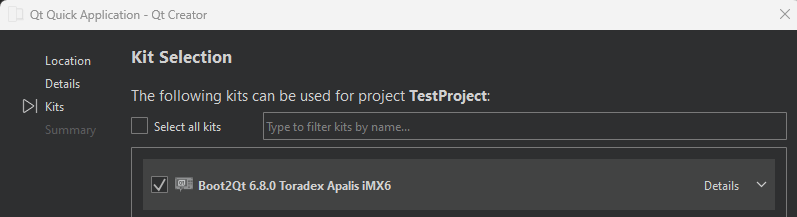
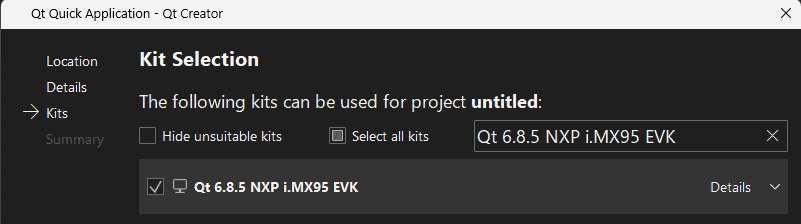
startupscreen: update deployment instructions
Update instructions from latest boot2qt/qtonboard documentation.

diff --git a/startupscreen/assets/b2qt-tutorial-deploying.html b/startupscreen/assets/b2qt-tutorial-deploying.html
@@ -1,40 +1,32 @@
-<div class="descr"> 
-<p>You can deploy all kinds of Qt projects to your target device: Qt Examples and projects that you have created yourself. In this tutorial, we use Qt Creator's project wizard and create a new Qt Quick project. We build and run the project, and deploy it to a target device.</p>
-<p>This tutorial guides how you deploy a project to one of the target devices with pre-built images (see Supported Target Devices and Development Hosts). However, you should follow similar steps when you deploy to a target device where you have built an image yourself.</p>
-<p>The tutorial assumes that you have installed the Boot to Qt software stack to your development host and flashed it to your target device. That is, <b>Get Started with Boot to Qt</b> appears on the device screen when you power on the device.</p>
-
-<h2 id="preparation-of-qt-kit">Preparation of Boot to Qt Kit</h2>
-<p>Qt Creator groups build and run specific settings as kits. Each kit consists of a set of values that define one environment, such as a target device, tool chain, Qt version, and debugger command to use.</p>
+<div class="descr" id="details">
+<p>You can deploy all kinds of Qt projects to your target device: <a href="http://doc.qt.io/qt/all-examples.html">Qt Examples</a> and projects that you have created yourself. In this tutorial, we use Qt Creator's project wizard and create a new <a href="http://doc.qt.io/qt/qtquick-index.html">Qt Quick</a> project. We build and run the project, and deploy it to a target device.</p>
+<p>This tutorial describes how you deploy a project to one of the target devices with pre-built Qt for embedded Linux images (see <a href="qtdc-supported-platforms.html">Supported Target Devices and Development Hosts</a>). However, you should follow similar steps when you deploy to a target device where you have built an image yourself.</p>
+<p>The tutorial assumes that you have installed Qt for embedded Linux to your development host and flashed it to your target device. That is, <b>Get Started with Qt</b> appears on the device screen when you power on the device.</p>
+<h2 id="preparing-qt-for-embedded-linux-kits">Preparing Qt for embedded Linux kits</h2>
+<p>Qt Creator groups build-and-run-specific settings together as kits. Each kit consists of a set of values that define one environment, such as a target device, tool chain, Qt version, and debugger command to use.</p>
 <p>Before deploying, make sure that your kit contains the target device. Connect your target device to the host platform, open Qt Creator, and execute the following steps:</p>
-<ol class="1" type="1"><li>Select <b>Edit &gt; Preferences &gt; Kits</b>.</li>
-<li>Select one of the predefined kits starting with <b>Boot to Qt..&#x2e;</b> that matches the type of your device (1).</li>
-<li>Select the appropriate device in the <b>Run device</b> field (2).</li>
-<li>Select <b>OK</b>.</li>
+<ol class="1" type="1"><li>Select <b translate="no">Edit</b> &gt; <b translate="no">Preferences</b> &gt; <b translate="no">Kits</b>.</li>
+<li>Select one of the predefined kits that matches the type of your device (1).</li>
+<li>Select the appropriate device in the <b translate="no">Run device</b> field (2).</li>
+<li>Select <b translate="no">Apply</b>.</li>
 </ol>
-<p class="centerAlign"><img src="assets/b2qt-device-in-kit.png" alt="" /></p>
-<h3 id="troubleshooting-device-is-not-found">Troubleshooting: Device is not found</h3>
-<p>When your target device is connected to the host platform, Qt Creator should automatically detect it and the device should appear in the kit's <b>Device</b> field. If it doesn't appear, first replug the device. If that doesn't help, then reboot the host platform.</p>
-<p><b>Note: </b>In Linux, ensure that you have access to plugged in devices. For more information, see Setting Up USB Access to Embedded Devices.</p>
-
-<h2 id="creating-new-qt-quick-project">Creating New Qt Quick Project</h2>
-<p>Create a new Qt Quick project with the steps in Creating Qt Quick Applications. When creating the project, you can use the default values defined in the wizard pages. In the <b>Kit Selection</b> page, select the Boot to Qt software stack kit that matches the type of your target device. The following picture illustrates how to select the kit where the device was added in Preparation of Boot to Qt Kit:</p>
-<p class="centerAlign"><img src="assets/b2qt-select-kit.png" alt="" /></p>
-<p>After you complete the steps in the project wizard, the generated Qt Quick project is automatically opened in the <b>Edit</b> mode (1).</p>
-<p class="centerAlign"><img src="assets/b2qt-edit-mode-pro-file.png" alt="" /></p>
-<p>You can see the project's structure by selecting <b>Projects</b> in the sidebar (2). If you select the <b>CMakeLists.txt</b> file (3) under your project, you see its content in the editor view. The last lines in the CMakeLists.txt file (4) define the path where your project is deployed. Qt's project wizard generates the path automatically for Qt Quick projects. For other projects, you might need to define the path manually in the CMakeLists.txt file.</p>
-<p>For more information on CMake, see Build with CMake. For more information on Qt Creator configurations for Boot to Qt, see Boot to Qt Deploy Configuration.</p>
-
-<h2 id="building-running-and-deploying-project">Building, running, and deploying project</h2>
-<p>Now it is time to build and run your project, and deploy it to the target device. When you run the project, Qt Creator automatically both builds it and deploys it to the device. Thus, you just need to select the <b>Run</b> button (1) in Qt Creator.</p>
-<p class="centerAlign"><img src="assets/b2qt-run-button.png" alt="" /></p>
-<p>Your project is now running on the target device.</p>
-<p>For more information on CMake deployment, see Deployment in CMake documentation.</p>
-
+<div class="admonition note">
+<p><b>Note: </b>If you use Docker, go to <b translate="no">Preferences</b> &gt; <b translate="no">Devices</b>, and select the Docker Device in the selected kit. Then check that the path to your project is listed in <b translate="no">Paths to mount</b>. This option maps the path to the docker container.</p>
+</div>
+<p class="centerAlign"><img src="assets/b2qt-device-in-kit.png" alt="Qt Creator Kits UI view." /></p><h2 id="creating-new-qt-quick-project">Creating new Qt Quick project</h2>
+<p>Create a new Qt Quick project with the steps in <a href="http://doc.qt.io/qtcreator/quick-projects.html#creating-qt-quick-applications">Creating Qt Quick Applications</a>. When creating the project, you can use the default values defined in the wizard pages. In the <b translate="no">Kit Selection</b> page, select the kit that matches the type of your target device. The following picture illustrates how to select the kit where the device was added in <a href="qtonboard-tutorial-deploying.html#preparing-qt-for-embedded-linux-kits">Preparing Qt for embedded Linux Kits</a>:</p>
+<p class="centerAlign"><img src="assets/b2qt-select-kit.png" alt="Qt Creator Kit Selection UI view." /></p><p>After you complete the steps in the project wizard, the generated Qt Quick project is automatically opened in the <b translate="no">Edit</b> mode (1).</p>
+<p class="centerAlign"><img src="assets/b2qt-edit-mode-pro-file.png" alt="Qt Creator Edit mode UI view." /></p><p>You can see the project's structure by selecting <b translate="no">Projects</b> in the sidebar (2). If you select the <b>CMakeLists.txt</b> file (3) under your project, you see its content in the editor view. The last lines in the CMakeLists.txt file (4) define the path where your project is deployed. Qt's project wizard generates the path automatically for Qt Quick projects. For other projects, you might need to define the path manually in the CMakeLists.txt file.</p>
+<p>For more information on CMake, see <a href="https://doc.qt.io/Qt-6/cmake-manual.html">Build with CMake</a>. For more information on Qt Creator configurations for Qt for embedded Linux, see <a href="https://doc-snapshots.qt.io/qtcreator-19.0/creator-reference-devices.html#embedded-platforms">Developing for devices</a>.</p>
+<h2 id="building-running-and-deploying-projects">Building, running, and deploying projects</h2>
+<p>Now it is time to build and run your project, and deploy it to the target device. When you run the project, Qt Creator automatically both builds it and deploys it to the device. Thus, you just need to select the <b translate="no">Run</b> button (1) in Qt Creator.</p>
+<p class="centerAlign"><img src="assets/b2qt-run-button.png" alt="Qt Creator Run button." /></p><p>Your project is now running on the target device.</p>
+<p>For more information on CMake deployment, see <a href="https://doc.qt.io/Qt-6/cmake-deployment.html">Deployment</a> in CMake documentation.</p>
 <h2 id="custom-deployment-steps">Custom deployment steps</h2>
 <p>Qt Creator allows you to execute custom commands on the embedded device connected to the development host. You can add the custom commands to the deployment phase of your project.</p>
 <p>Follow these steps to add a custom step to be executed during deployment:</p>
-<ol class="1" type="1"><li>In Qt Creator, go to <b>Projects &gt; Run</b> for the {Boot to Qt} version you want to customize.</li>
-<li>Select <b>Add Deploy Step &gt; Run custom remote command</b>.</li>
+<ol class="1" type="1"><li>In Qt Creator, go to <b translate="no">Projects</b> &gt; <b translate="no">Deploy Settings</b></li>
+<li>Select <b translate="no">Add Deploy Step</b> &gt; <b translate="no">Run custom remote command</b>.</li>
 <li>Enter the command to be executed.</li>
 </ol>
 </div>
